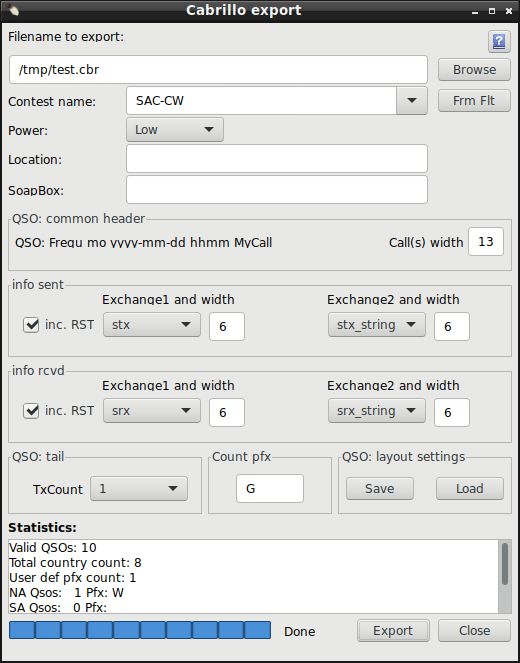
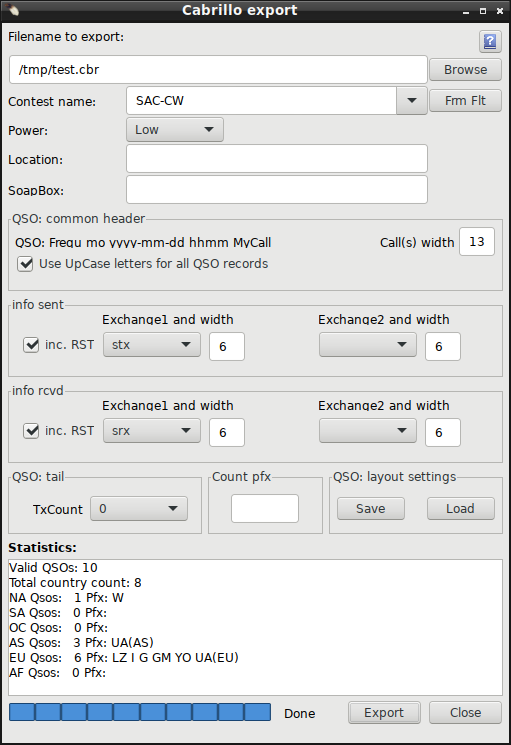
Cabrillo output to upperCase
This fixes "QSO:" lines of cabrillo export to be UpperCase (if checkbox checked. Default is checked).
Mainly effects to STX/SRX_STRINGs if they have been written in lowCase during qso.

Case seems NOT to be critical when feeding qsos to log robots, but who never knows. At least result look better.

diff --git a/help/h3.html b/help/h3.html
@@ -99,7 +99,8 @@
     some statistics from exported qsos to help manual counting of claimed score.<br><br>
     For export  <b>Qso list/filter/create</b> or <b>Qso list/filter/Contest filter </b>has to be set to select qsos to be exported.<br>
     If you used <b>Qso list/filter/Contest filter </b> you can press button <b>Frm Flt</b> to get contest name from filtered result.
-    <br><br>QSO-line header follows most used layout and can not be modified, except <b>width of callsign space</b> that affects both calls (my&amp;wkd).<br>
+    <br><br>QSO-line header follows most used layout and can not be modified, except <b>width of callsign space</b> that affects both calls (my&amp;wkd).
+    <br><b>Use UpCase letters for all QSO records</b> is defaut checked and converts QSO lines to upper case. Mainly changes exchange messages if they have been written with low case letters. This setting can be saved to log settings file.<br>
     Info sent and rcvd can be modified using selections. Some contests do not use <b>reports, they can be omitted from checbox.</b><br>
     Exchange1 and Exchange2 can contain data by  selected by selectors with <b>given space width</b> 1-99. If empty they are ignored.<br>
     <B>TX count</b> is the transmitter count at the end of line. It can also be empty and so ingnored<br>
